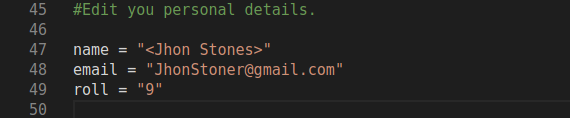
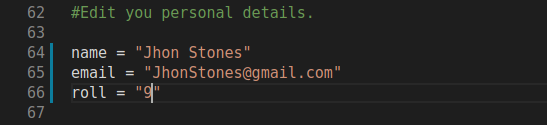
Edits

diff --git a/attendence.py b/attendence.py
@@ -4,6 +4,21 @@ import datetime
 
 def get_PeriodName_Time(day, period_no):
 
+        """
+                get_PeriodName_Time(day, period_no) returns the name of subject and timing of the period.
+                This function takes into consideration the lab classes that stretch over more than one classes.
+                
+                Input :
+                day :: Int
+                perod_no :: Int
+
+                Output :
+                Period Name :: String
+                Period_timing :: String
+        """
+
+        # Thesea re subject names we are having
+
         subjects = ["Mathematics & Statistics III (BSM301)","Electronic Devices (PCC-EC301)",
                     "Analog Electronic Circuits (PCC-EC302)","Network Theory (PCC-EC303)",
                     "Signal & System (PCC-EC304)", "Essential Studies for Professionals III (HUSS-ESP-301)",
@@ -29,6 +44,8 @@ def get_PeriodName_Time(day, period_no):
         
         time = period_theory_timings[period-1]
         
+        # Check if it is a lab class
+
         if period <= 5 :
                 if routine[day][period-1] == routine[day][period] :
                         time = period_lab_timings[period]
@@ -44,9 +61,9 @@ url = "https://docs.google.com/forms/d/e/1FAIpQLSebcakSCz135JZoO5CRKfc_918qKVoqV
 
 #Edit you personal details.
 
-name = "<ENTER YOUR NAME HERE>"
-email = "<ENTER YOUR EMAIL ID HERE>"
-roll = "<ENTER YOUR ROLL NUMBER HERE>"
+name = "Jhon Stones"
+email = "JhonStones@gmail.com"
+roll = "9"
 
 section = "A"
 year = "2nd Year"

diff --git a/README.md b/README.md
@@ -32,7 +32,7 @@ Follow these steps to register your attendence.
 
 * Open the `attendence.py` and insert your details.<br>By details I mean your name,eamil-id and roll no.No need to change any other details as such.<p>
 For Eg :
-Your name is **Jhon Stone**.<br>Email is **JhonStoner@gmail.com**.<br>
+Your name is **Jhon Stones**.<br>Email is **JhonStoner@gmail.com**.<br>
 Roll No is **9**.</p>
 You should fill it like :
 <a name="Details.png"/>
